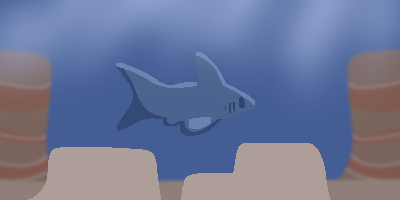
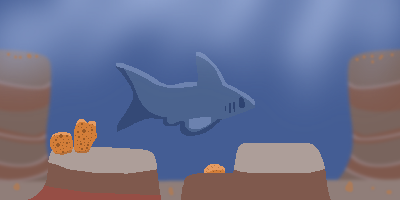
Various Things
Added new sprites, some are just experimentation, didn't implement. Sponge can no longer convert to science. Jellyfish are banned from the recycler, this attempts to address the recycler making science, as a whole. Made changes to worldtypes. Restricted the amount of different kinds of creatures available in any given world. The game needs a massive overhaul to general progression surrounding non-standard creatures.

diff --git a/js/data/worldtypes.js b/js/data/worldtypes.js
@@ -28,6 +28,7 @@ SharkGame.WorldTypes = {
             "prospector",
             "shoveler",
             "miller",
+            "rockLobster",
             "crusher",
             "pulverizer",
             "knowledge",
@@ -98,15 +99,19 @@ SharkGame.WorldTypes = {
             "prospector",
             "shoveler",
             "miller",
+            "rockLobster",
             "crusher",
             "pulverizer",
             "knowledge",
             "tar",
             "ice",
             "heater",
-            "shrimp",
             "chimaera",
-            "eel"
+            "eel",
+            "dolphin",
+            "whale",
+            "octopus",
+            "jellyfish"
         ],
         modifiers: [
             { type: "multiplier", modifier: "planetaryResourceBoost", resource: "fish", amount: 1.5 }
@@ -132,6 +137,7 @@ SharkGame.WorldTypes = {
             "prospector",
             "shoveler",
             "miller",
+            "rockLobster",
             "crusher",
             "pulverizer",
             "knowledge",
@@ -139,15 +145,16 @@ SharkGame.WorldTypes = {
             "ice",
             "heater",
             "eel",
-            "whale",
             "octopus",
             "shrimp",
             "jellyfish",
             "chimaera",
-            "dolphin",
-            "biologist",
             "queen",
-            "pit"
+            "pit",
+            "lobster",
+            "berrier",
+            "algae",
+            "sponge"
         ],
         modifiers: [
             { type: "multiplier", modifier: "planetaryIncome", resource: "frenzy", amount: 0.01 },
@@ -179,6 +186,7 @@ SharkGame.WorldTypes = {
             "prospector",
             "shoveler",
             "miller",
+            "rockLobster",
             "crusher",
             "pulverizer",
             "knowledge",
@@ -186,7 +194,10 @@ SharkGame.WorldTypes = {
             "ice",
             "heater",
             "chimaera",
-            "whale"
+            "whale",
+            "lobster",
+            "eel",
+            "shrimp"
         ],
         modifiers: [
             { type: "multiplier", modifier: "planetaryIncomeMultiplier", resource: "breeders", amount: 1 },
@@ -213,6 +224,7 @@ SharkGame.WorldTypes = {
             "prospector",
             "shoveler",
             "miller",
+            "rockLobster",
             "crusher",
             "pulverizer",
             "knowledge",
@@ -221,8 +233,11 @@ SharkGame.WorldTypes = {
             "heater",
             "chimaera",
             "jellyfish",
-            "eel",
-            "dolphin"
+            "dolphin",
+            "whale",
+            "octopus",
+            "shrimp",
+            "algae"
         ],
         modifiers: [
             { type: "multiplier", modifier: "planetaryIncome", resource: "stuff", amount: -0.1 },
@@ -252,15 +267,19 @@ SharkGame.WorldTypes = {
             "prospector",
             "shoveler",
             "miller",
+            "rockLobster",
             "crusher",
             "pulverizer",
             "knowledge",
             "tar",
             "ice",
             "heater",
-            "octopus",
-            "eel",
             "chimaera",
+            "whale",
+            "shrimp",
+            "coral",
+            "dolphin",
+            "lobster",
             "whale"
         ],
         modifiers: [
@@ -292,6 +311,7 @@ SharkGame.WorldTypes = {
             "prospector",
             "shoveler",
             "miller",
+            "rockLobster",
             "crusher",
             "pulverizer",
             "knowledge",
@@ -333,6 +353,7 @@ SharkGame.WorldTypes = {
             "prospector",
             "shoveler",
             "miller",
+            "rockLobster",
             "crusher",
             "pulverizer",
             "knowledge",
@@ -380,12 +401,12 @@ SharkGame.WorldTypes = {
             "tar",
             "dolphin",
             "whale",
-            "lobster",
             "chimaera",
             "shrimp",
             "seaApple",
             "coral",
-            "algae"
+            "algae",
+            "octopus"
         ],
         modifiers: [
             { type: "multiplier", modifier: "planetaryIncomeMultiplier", resource: "machines", amount: 0.5},

diff --git a/js/data/upgrades.js b/js/data/upgrades.js
@@ -450,7 +450,7 @@ SharkGame.Upgrades = {
             name: "Xenobiology",
             desc: "Determine what is with these weird faceless creatures we keep finding.",
             researchedMessage: "Results inconclusive! Further research required. It could be such a benefit for science!",
-            effectDesc: "Kelp produces sea apples twice as fast. Also, sea apple isn't a fruit. We can also dissect sea apples, jellyfish and sponge for science.",
+            effectDesc: "Kelp produces sea apples twice as fast. Also, sea apple isn't a fruit. We can also dissect sea apples and jellyfish for science.",
             cost: {
                 science: 600
             },
@@ -1041,11 +1041,11 @@ SharkGame.Upgrades = {
             name: "Superprocessing",
             desc: "Ack! The recycler really wasn't meant for this much junk. The scientists have an idea, though.",
             researchedMessage: "Residue has become something of an amorphous supermaterial! It's hard and soft, hot and cold, wet and - well, it's underwater, so, it's just wet, but you get the point.",
-            effectDesc: "The recycler's efficiency only starts dropping at 100 million material inserted at once, instead of 1 million.",
+            effectDesc: "The recycler's efficiency only starts dropping at 10 million material inserted at once, instead of 100 thousand.",
             cost: {
                 science: 1E6,
                 sharkonium: 1E6,
-                junk: 1E7
+                junk: 1E6
             },
             required: {
                 upgrades: [
@@ -1771,25 +1771,6 @@ SharkGame.Upgrades = {
             }
         },
 
-        xenobiology: {
-            name: "Xenobiology",
-            desc: "Determine what is with these weird faceless creatures we keep finding.",
-            researchedMessage: "Results inconclusive! Further research required. It could be such a benefit for science!",
-            effectDesc: "We can dissect jellyfish and sponge for science.",
-            cost: {
-                science: 600
-            },
-            required: {
-                upgrades: [
-                    "agriculture"
-                ],
-                resources: [
-                    "jellyfish",
-                    "sponge"
-                ]
-            }
-        },
-
         rayBiology: {
             name: "Ray Biology",
             desc: "Though kindred to the sharks, we know so little about the rays. If only we could fix this. We need to bait a sand trap.",
@@ -2056,8 +2037,6 @@ SharkGame.Upgrades = {
                 ]
             }
         },
-
-
 
         industrialGradeSponge: {
             name: "Industrial-Grade Sponge",

diff --git a/js/data/homeactions.js b/js/data/homeactions.js
@@ -290,6 +290,7 @@ SharkGame.HomeActions = {
         helpText: "Dissect sea apples to gain additional science. Research!"
     },
 
+/*
     "spongeToScience": {
         name: "Dissect sponge",
         effect: {
@@ -318,7 +319,7 @@ SharkGame.HomeActions = {
         ],
         helpText: "Dissect sponges to learn their porous secrets. Science!"
     },
-
+*/
     "jellyfishToScience": {
         name: "Dismantle jellyfish",
         effect: {
@@ -347,7 +348,7 @@ SharkGame.HomeActions = {
         ],
         helpText: "Examine the goop inside the stinging jellies! Discovery!"
     },
-
+    
     "pearlConversion": {
         name: "Convert clam pearls",
         effect: {
@@ -2932,7 +2933,7 @@ SharkGame.HomeActionCategories = {
         name: "Processing",
         actions: [
             "seaApplesToScience",
-            "spongeToScience",
+            //"spongeToScience",
             "jellyfishToScience",
             "pearlConversion",
             "transmuteSharkonium",

diff --git a/js/tabs/recycler.js b/js/tabs/recycler.js
@@ -46,7 +46,8 @@ SharkGame.Recycler = {
         "junk",
         "science",
         "seaApple",
-        "coalescer"
+        "coalescer",
+        "jellyfish"
     ],
 
     efficiency: "NA",
@@ -287,7 +288,7 @@ SharkGame.Recycler = {
     updateEfficiency: function(resource, amount) {
         const y = SharkGame.Recycler;
         const buyN = SharkGame.Settings.current.buyAmount;
-        let evalue = 6;
+        let evalue = 5;
 
         // no efficiency change if only eating up to 100
         if(buyN > 0) {
@@ -297,7 +298,7 @@ SharkGame.Recycler = {
 
         if(SharkGame.Upgrades.getUpgradeTable().superprocessing) {
             if(SharkGame.Upgrades.getUpgradeTable().superprocessing.purchased) {
-                evalue = 8;
+                evalue = 7;
             }
         }
 

diff --git a/js/data/sprites.js b/js/data/sprites.js
@@ -721,7 +721,7 @@ SharkGame.Sprites = {
         "sourceSize": {"w":50,"h":50},
         "pivot": {"x":0,"y":0}
     },
-    "actions/spongeToScience":
+    /* "actions/spongeToScience":
     {
         "frame": {"x":1250,"y":54,"w":50,"h":50},
         "rotated": false,
@@ -729,7 +729,7 @@ SharkGame.Sprites = {
         "spriteSourceSize": {"x":0,"y":0,"w":50,"h":50},
         "sourceSize": {"w":50,"h":50},
         "pivot": {"x":0,"y":0}
-    },
+    }, */
     "actions/transmuteSharkonium":
     {
         "frame": {"x":1284,"y":2,"w":50,"h":50},

diff --git a/js/save.js b/js/save.js
@@ -471,6 +471,7 @@ SharkGame.Save = {
 
     saveUpdaters: [ //used to update saves and to make templates
         function(save) {
+            alert("v1");
             //no one is converting a real save to version 0, so it doesn't need real values
             save.version = null;
             save.timestamp = null;

diff --git a/js/data/resourcetable.js b/js/data/resourcetable.js
@@ -280,7 +280,7 @@ SharkGame.ResourceTable = {
     prospector: {
         name: "prospector sharks",
         singleName: "prospector shark",
-        color: "#6A74AB",
+        color: "#7C819C",
         income: {
             "crystal": 0.5,
             "stone": 0.5
